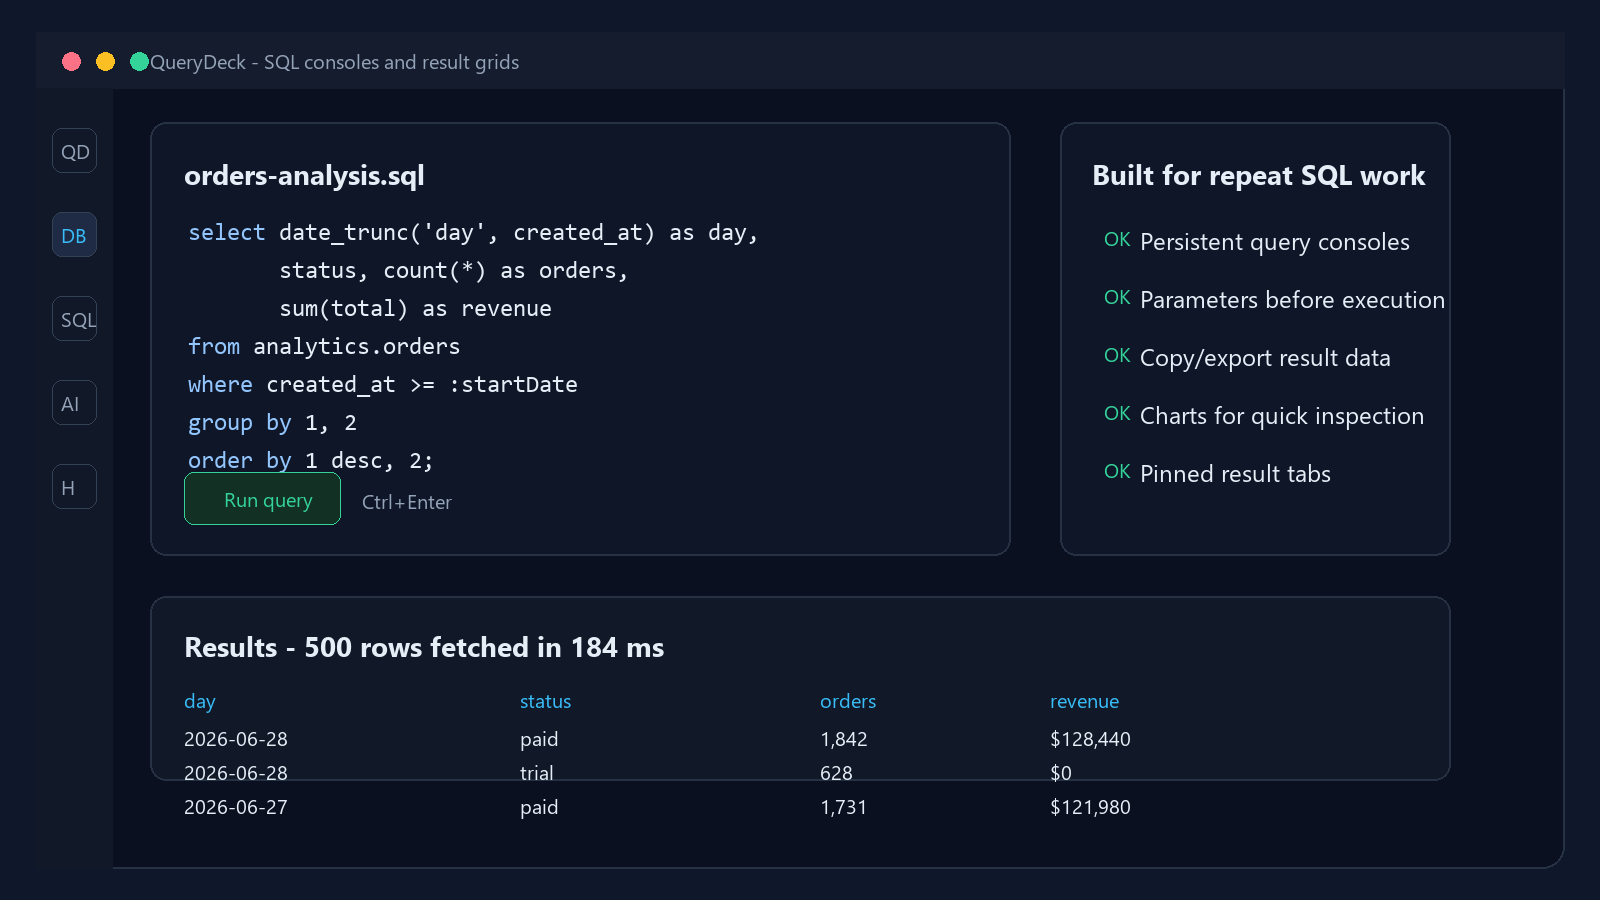
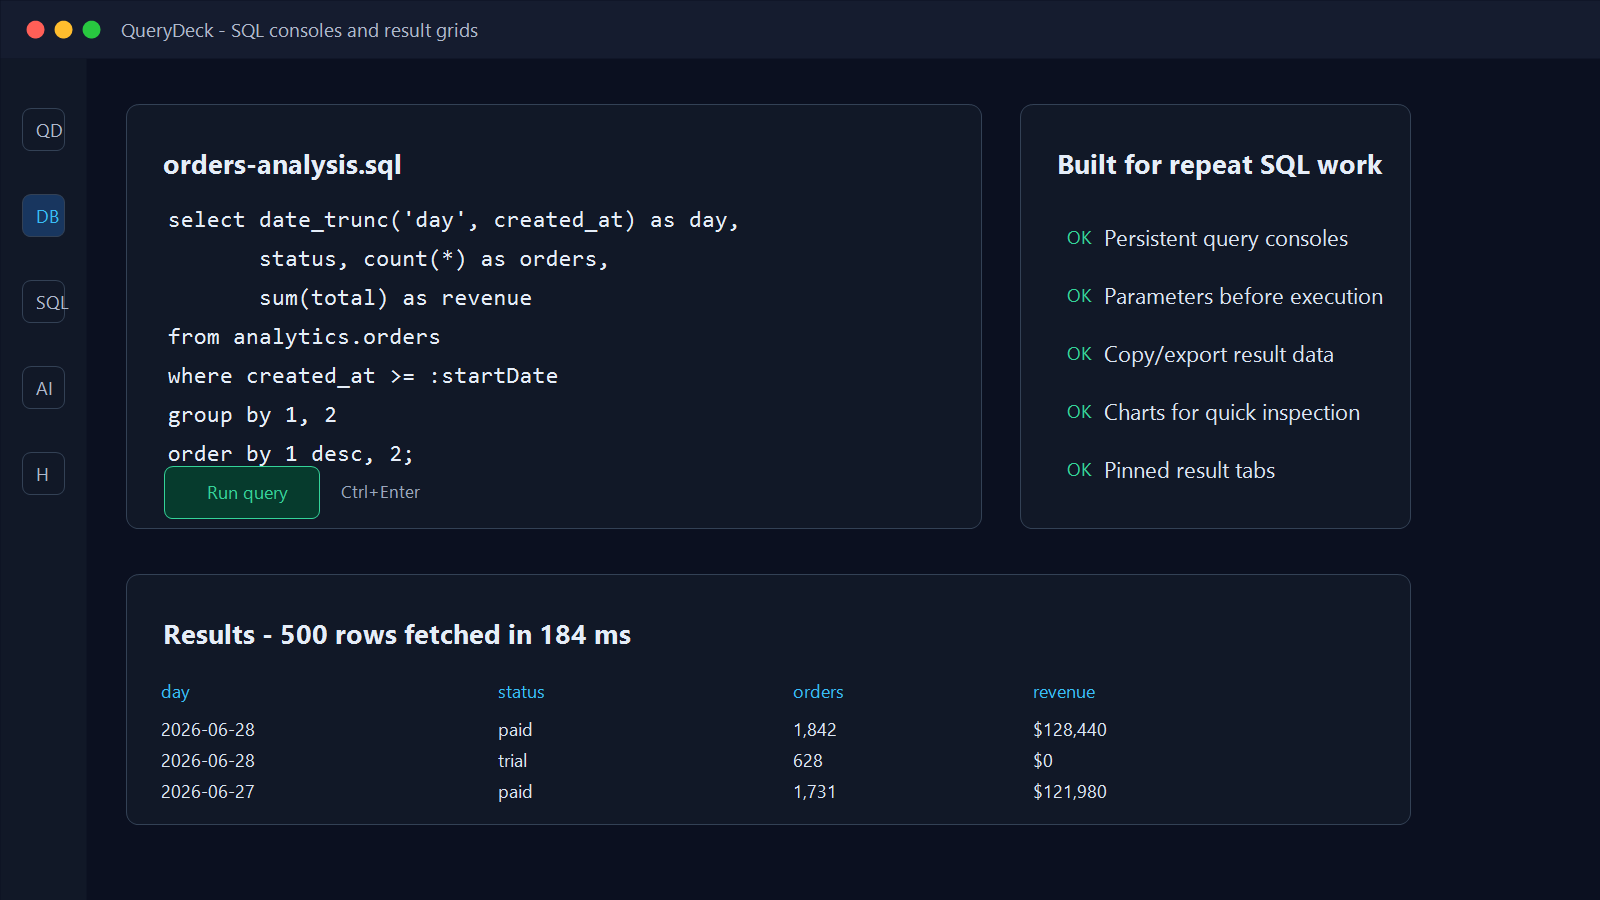
Fix marketplace assets and AI-first positioning

diff --git a/tests/marketplaceReadme.test.ts b/tests/marketplaceReadme.test.ts
@@ -1,0 +1,36 @@
+import { existsSync, readFileSync } from 'node:fs';
+import { join } from 'node:path';
+import { describe, expect, it } from 'vitest';
+
+const readme = readFileSync('README.md', 'utf8');
+
+describe('marketplace README', () => {
+  it('uses Marketplace-safe raw image URLs instead of local image references', () => {
+    const imageReferences = [...readme.matchAll(/!\[[^\]]*]\(([^)]+)\)/g)].map((match) => match[1]);
+
+    expect(imageReferences.length).toBeGreaterThanOrEqual(3);
+    expect(imageReferences.every((reference) => reference.startsWith('https://raw.githubusercontent.com/yirgagithub/vsCode-Data-Grip/main/'))).toBe(true);
+    expect(imageReferences.some((reference) => reference.endsWith('.gif'))).toBe(false);
+
+    for (const reference of imageReferences) {
+      const assetPath = reference.replace('https://raw.githubusercontent.com/yirgagithub/vsCode-Data-Grip/main/', '');
+      expect(existsSync(join(process.cwd(), assetPath))).toBe(true);
+    }
+  });
+
+  it('keeps every supported database engine visible in the Marketplace copy', () => {
+    for (const engine of ['PostgreSQL', 'Redshift', 'MySQL', 'SQLite', 'SQL Server', 'Oracle', 'Redis', 'Snowflake']) {
+      expect(readme).toContain(engine);
+    }
+  });
+
+  it('keeps the AI-first and local query memory positioning in the opening section', () => {
+    const opening = readme.slice(0, readme.indexOf('## Coming From Another Database Tool?'));
+
+    expect(opening).toContain('AI-first');
+    expect(opening).toContain('Codex');
+    expect(opening).toContain('Claude Code');
+    expect(opening).toContain('local query memory');
+    expect(opening).toContain('performance recommendations');
+  });
+});

diff --git a/README.md b/README.md
@@ -1,21 +1,33 @@
 # QueryDeck
 
-QueryDeck is a VS Code SQL workbench for developers who want to connect, browse schema, run queries, inspect results, and recover useful SQL without leaving the editor.
+QueryDeck is an AI-first VS Code SQL workbench for developers who want to connect, browse schema, run queries, inspect results, and recover useful SQL without leaving the editor.
 
 It supports PostgreSQL, Redshift, MySQL, SQLite, Microsoft SQL Server, Oracle, Redis, and Snowflake.
 
-![QueryDeck demo](media/marketplace/querydeck-demo.gif)
+![QueryDeck supported database connections](https://raw.githubusercontent.com/yirgagithub/vsCode-Data-Grip/main/media/marketplace/querydeck-connections.png)
 
 ## Why Install QueryDeck?
 
+- Bring SQL work into the same editor where Codex, Claude Code, Copilot, and other AI coding tools already work.
+- Ask AI to explain SQL, fix SQL errors, summarize local query memory, and recommend table performance improvements.
+- Search local query memory by plain-language phrases, table names, columns, output fields, status, or SQL fragments.
 - Stay in VS Code while working with production, local, and warehouse databases.
 - Open durable query consoles that are tied to saved connections.
 - Browse schemas, tables, columns, keys, indexes, views, procedures, and generated DDL.
 - Run SQL from files, selections, or parameterized query consoles.
 - Inspect result grids with paging, filtering, copy, export, charting, and pinned tabs.
-- Search local query history by plain-language phrases, table names, columns, output fields, status, or SQL fragments.
-- Use AI to explain SQL, fix SQL errors, summarize query memory, and analyze table performance without sending database passwords in prompts.
 - Mark production and read-only connections so destructive SQL gets an extra safety check.
+
+## AI-First SQL Workflow
+
+QueryDeck is designed for the way developers now work in VS Code: write SQL, inspect schema, keep history, and hand useful context to AI coding assistants without jumping into a separate database IDE.
+
+Use it with:
+
+- Codex, Claude Code, Copilot, or another AI assistant reading and editing SQL in your workspace.
+- QueryDeck AI commands for explain, fix, query-memory summaries, and performance recommendations.
+- Local query memory so useful SQL does not disappear after a tab closes.
+- Production and read-only safety checks before risky SQL runs.
 
 ## Coming From Another Database Tool?
 
@@ -34,15 +46,15 @@ Choose QueryDeck if your pain is not just connecting to a database, but keeping 
 
 ### Connect And Browse
 
-![QueryDeck connection onboarding and schema explorer](media/marketplace/querydeck-connections.png)
+![QueryDeck connection onboarding and schema explorer](https://raw.githubusercontent.com/yirgagithub/vsCode-Data-Grip/main/media/marketplace/querydeck-connections.png)
 
 ### Run SQL And Inspect Results
 
-![QueryDeck SQL console and result grid](media/marketplace/querydeck-results.png)
+![QueryDeck SQL console and result grid](https://raw.githubusercontent.com/yirgagithub/vsCode-Data-Grip/main/media/marketplace/querydeck-results.png)
 
 ### Recover Past Queries And Use AI
 
-![QueryDeck query history and AI assistance](media/marketplace/querydeck-history-ai.png)
+![QueryDeck query history and AI assistance](https://raw.githubusercontent.com/yirgagithub/vsCode-Data-Grip/main/media/marketplace/querydeck-history-ai.png)
 
 ## Built For Daily SQL Work
 